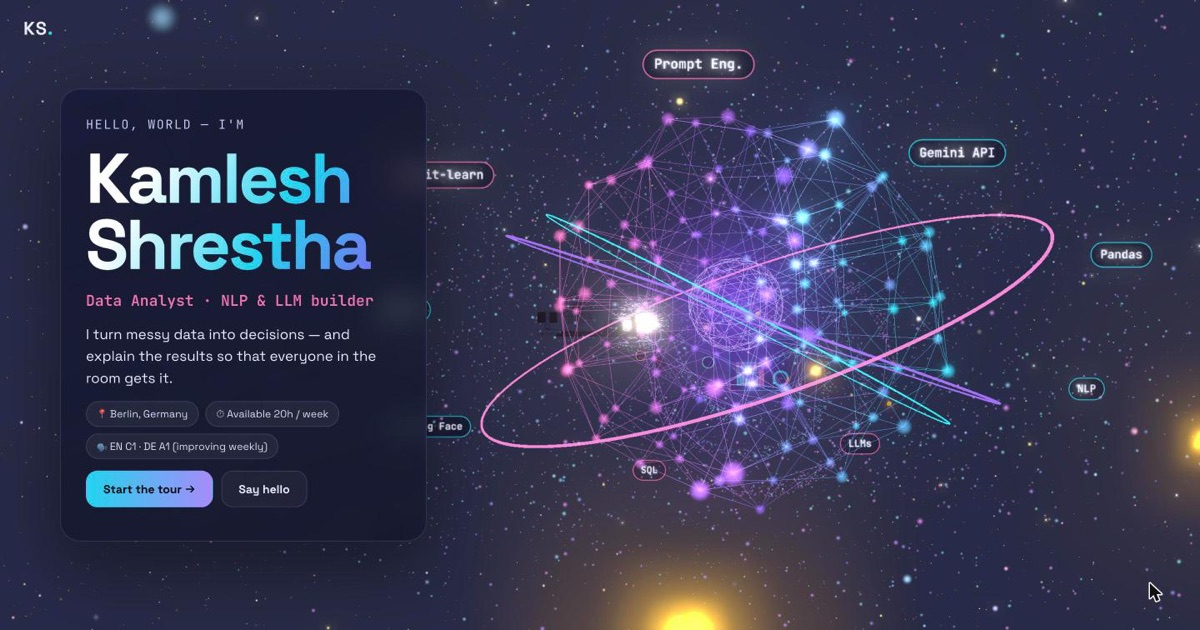
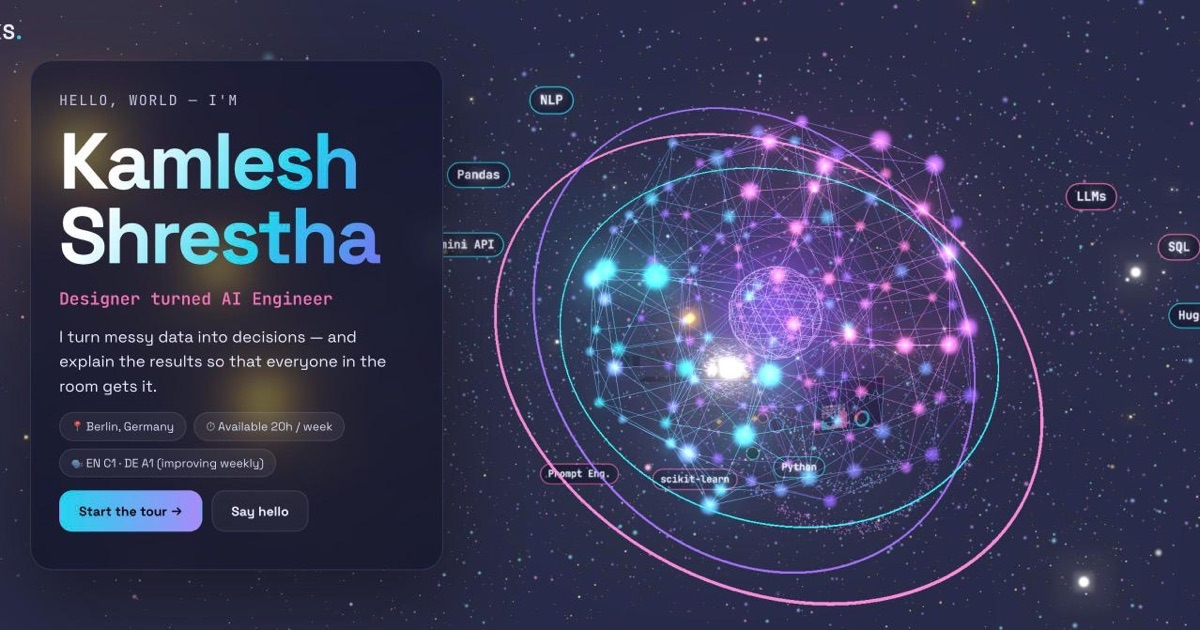
Align site with GitHub profile: "Designer turned AI Engineer"
- Lead role line, About paragraph and meta descriptions now match the README
- Refresh social preview image with the new tagline
- Let tall panels scroll on short desktop screens

diff --git a/index.html b/index.html
@@ -4,12 +4,12 @@
 <meta charset="utf-8">
 <meta name="viewport" content="width=device-width, initial-scale=1, viewport-fit=cover">
 <title>Kamlesh Shrestha — Data & AI Portfolio</title>
-<meta name="description" content="Interactive 3D portfolio of Kamlesh Shrestha — Data Analyst, NLP & LLM builder, Prompt Engineering trainer. MSc Data Science, AI & Digital Business, Berlin.">
+<meta name="description" content="Interactive 3D portfolio of Kamlesh Shrestha — designer turned AI engineer. Data analytics, NLP & LLM projects, prompt-engineering training. MSc Data Science, AI & Digital Business, Berlin.">
 <link rel="canonical" href="https://kamleshshrestha.github.io/">
 <meta property="og:type" content="website">
 <meta property="og:site_name" content="Kamlesh Shrestha">
 <meta property="og:title" content="Kamlesh Shrestha — Data & AI Portfolio">
-<meta property="og:description" content="Fly through an interactive 3D universe of my work: data analytics, NLP & LLM projects, and prompt-engineering training. Berlin · MSc Data Science, AI & Digital Business.">
+<meta property="og:description" content="Designer turned AI engineer. Fly through an interactive 3D universe of my work: data analytics, NLP & LLM projects and prompt-engineering training. Berlin.">
 <meta property="og:url" content="https://kamleshshrestha.github.io/">
 <meta property="og:image" content="https://kamleshshrestha.github.io/assets/og-image.jpg">
 <meta property="og:image:width" content="1200">
@@ -24,7 +24,7 @@
 <link rel="preconnect" href="https://fonts.googleapis.com">
 <link rel="preconnect" href="https://fonts.gstatic.com" crossorigin>
 <link href="https://fonts.googleapis.com/css2?family=JetBrains+Mono:wght@400;600&family=Space+Grotesk:wght@400;500;700&display=swap" rel="stylesheet">
-<link rel="stylesheet" href="style.css?v=20261013">
+<link rel="stylesheet" href="style.css?v=20261015">
 <script type="importmap">
 { "imports": { "three": "./vendor/three/three.module.js", "three/addons/": "./vendor/three/addons/" } }
 </script>
@@ -70,7 +70,7 @@
   <section class="panel" data-i="1">
     <p class="kicker mono">01 — About</p>
     <h2>Analyst by craft,<br>teacher by habit.</h2>
-    <p>MSc student in Data Science, AI &amp; Digital Business with hands-on analyst experience in Python and SQL. I've built and tested NLP and LLM projects and taught Python and GenAI tools — so documenting and explaining data work for mixed audiences comes naturally.</p>
+    <p>I started in <b>design</b> — obsessing over how things look, feel, and flow — then got curious about what happens behind the screen and moved into <b>AI engineering</b>. Today I'm an MSc student in Data Science, AI &amp; Digital Business with hands-on analyst experience in Python and SQL. I've built and tested NLP and LLM projects and taught Python and GenAI tools — so documenting and explaining data work for mixed audiences comes naturally.</p>
     <div class="stats">
       <div><b data-count="50000" data-suffix="+">0</b><span>records cleaned in SQL for monthly management reporting</span></div>
       <div><b data-count="75" data-suffix="%">0</b><span>growth in corporate training delivery from a GenAI curriculum I designed</span></div>
@@ -170,6 +170,6 @@
 <div id="tip" class="mono"></div>
 <div id="toast"></div>
 
-<script type="module" src="main.js?v=20261013"></script>
+<script type="module" src="main.js?v=20261015"></script>
 </body>
 </html>

diff --git a/main.js b/main.js
@@ -3,7 +3,7 @@ import { EffectComposer } from 'three/addons/postprocessing/EffectComposer.js';
 import { RenderPass } from 'three/addons/postprocessing/RenderPass.js';
 import { UnrealBloomPass } from 'three/addons/postprocessing/UnrealBloomPass.js';
 import { OutputPass } from 'three/addons/postprocessing/OutputPass.js';
-import { DETAILS, SKILLS, CAT_COLORS, ROLES } from './data.js';
+import { DETAILS, SKILLS, CAT_COLORS, ROLES } from './data.js?v=20261015';
 
 /* ------------------------------------------------------------------ *
  *  Setup

diff --git a/style.css b/style.css
@@ -152,3 +152,6 @@ body.falling .panel,body.falling .top,body.falling #dots,body.falling #hud,body.
 .fall-bar i{display:block;height:100%;width:0;background:linear-gradient(90deg,var(--cyan),var(--pink));box-shadow:0 0 14px var(--cyan)}
 .fall-bar i.run{width:100%;transition:width 10s linear}
 #fall .mini{font-size:11px;color:var(--dim)}
+
+/* very tall cards scroll instead of running off short screens */
+@media (min-width:821px){.panel{max-height:90vh;overflow-y:auto;scrollbar-width:thin;scrollbar-color:rgba(160,175,255,.3) transparent}}

diff --git a/data.js b/data.js
@@ -102,4 +102,4 @@ export const SKILLS = [
 ];
 export const CAT_COLORS = ['#22d3ee', '#fbbf24', '#f472b6', '#34d399'];
 
-export const ROLES = ['Data Analyst', 'NLP & LLM builder', 'Prompt Engineering trainer', 'MSc student @ Gisma', 'Storyteller with numbers'];
+export const ROLES = ['Designer turned AI Engineer', 'Data Analyst', 'NLP & LLM builder', 'Prompt Engineering trainer', 'MSc student @ Gisma'];
